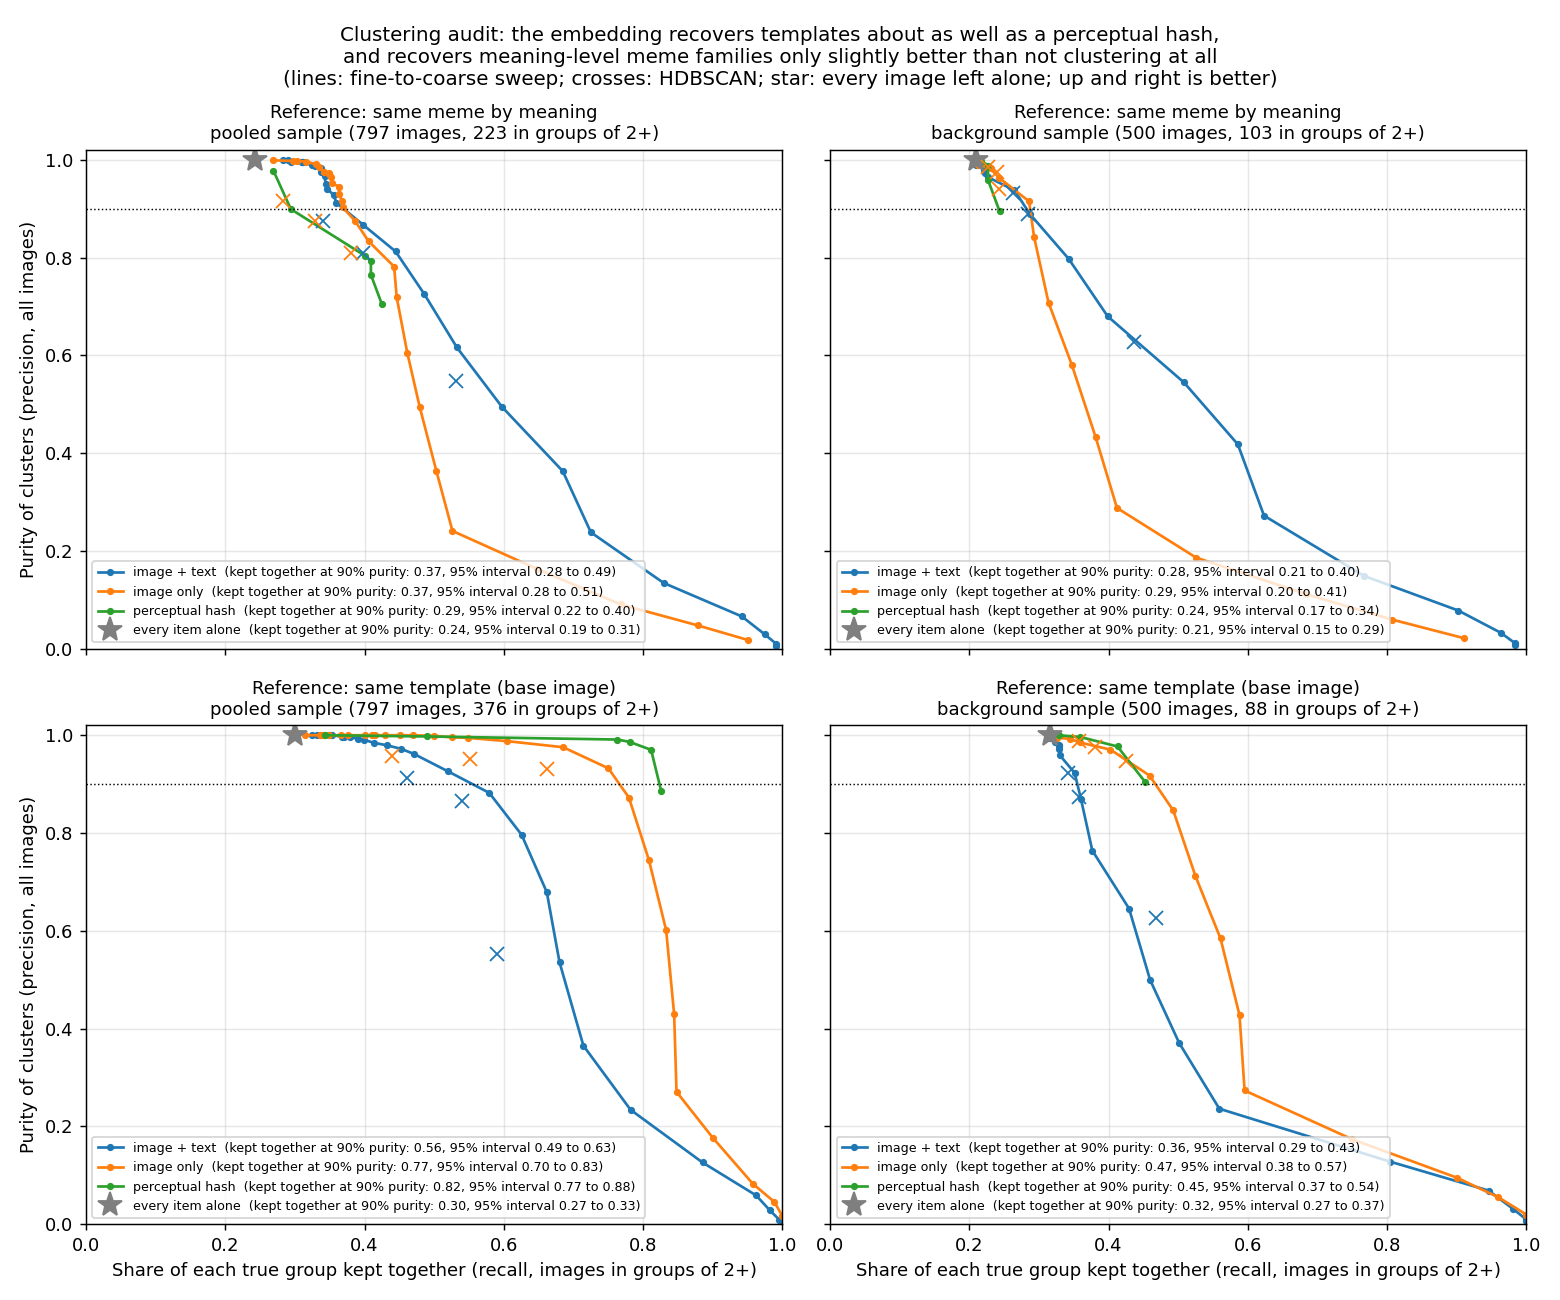
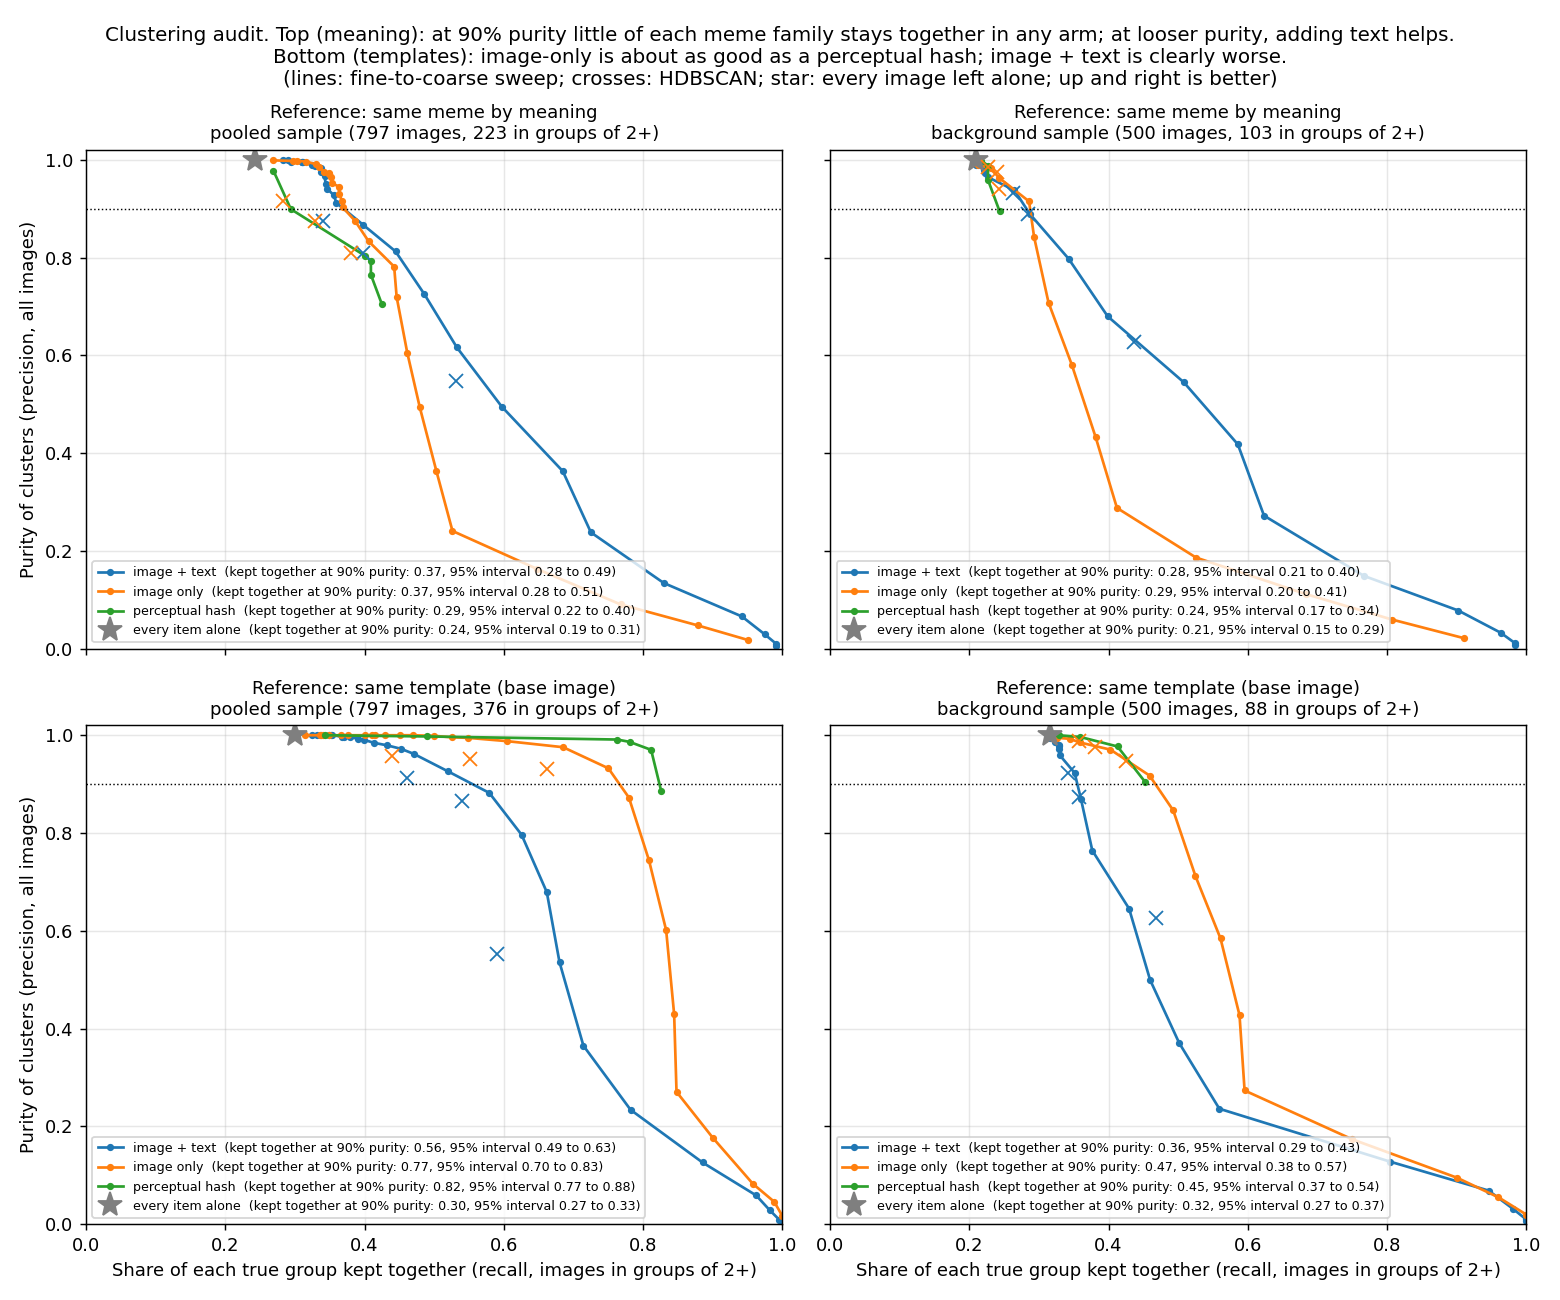
Clustering audit: record independent review and queue the unit-of-analysis decision
Claude-Session: https://claude.ai/code/session_01LFW5Hsb7zRZjx6Dcc4j7Yr

Changed region(s): [[0.0615, 0.0, 0.8308, 0.0615], [0.8308, 0.0, 0.9231, 0.0308]]

diff --git a/experiments/wp04/plot_audit.py b/experiments/wp04/plot_audit.py
@@ -92,8 +92,9 @@ def main() -> None:
             ax.set_xlim(0, 1); ax.set_ylim(0, 1.02); ax.grid(alpha=0.3)
             if r == 1: ax.set_xlabel("Share of each true group kept together (recall, images in groups of 2+)")
             if c == 0: ax.set_ylabel("Purity of clusters (precision, all images)")
-    fig.suptitle("Clustering audit: the embedding recovers templates about as well as a perceptual hash,\n"
-                 "and recovers meaning-level meme families only slightly better than not clustering at all\n"
+    fig.suptitle("Clustering audit. Top (meaning): at 90% purity little of each meme family stays together in any arm; "
+                 "at looser purity, adding text helps.\n"
+                 "Bottom (templates): image-only is about as good as a perceptual hash; image + text is clearly worse.\n"
                  "(lines: fine-to-coarse sweep; crosses: HDBSCAN; star: every image left alone; up and right is better)",
                  fontsize=11)
     fig.tight_layout()

diff --git a/docs/work-packages/WP-04-clustering-gold-set-audit.md b/docs/work-packages/WP-04-clustering-gold-set-audit.md
@@ -158,6 +158,42 @@ grades from the plots; no self-certified pass (AGENTS.md).
 
 <!-- Newest at top. -->
 
+- 2026-11-27 — **Independent review of the scored run (fresh agent, given artifacts and not
+  the conclusion): numbers reproduce, two of my readings were wrong, one pipeline bug
+  found.** Full text: `experiments/WP-04/sample-001/review/review.md`. Status of the scored
+  run is now `agent-reviewed`, with the family layer still unvalidated by the user check.
+  *Reproduced:* all 24 primary values to four decimals with separate code; row alignment
+  correct; a finer sweep moves numbers by at most 0.012; other linkages, a mutual-neighbour
+  graph and other image-to-text weightings all give 0.34–0.39, so the result is not an
+  artefact of the clustering method.
+  *Corrected reading 1:* "text adds nothing" is true only at the 0.90 operating point. At
+  precision 0.70 image plus text beats image only by 0.06 (0.02–0.10) pooled and 0.07
+  (0.02–0.14) in the background, and by more at 0.50; the 2-D map shows the same. At 0.90,
+  78% of the precision loss falls on images labelled unique, so a few false merges set the
+  number. The plot disagreed with my summary; the plot was right.
+  *Corrected reading 2:* "as good as a perceptual hash on templates" holds for image only
+  and is false for image plus text, the accepted composition (0.56 against 0.82). Plot title
+  fixed.
+  *Bug:* `embed_pipeline` in `experiments/wp01/pipelines.py` encodes an image with no
+  extracted text as the literal string "[empty]", so the 29 such images share an identical
+  text half and 17 unrelated ones form one cluster. Zeroing the text half for them lifts
+  image plus text from 0.37 to 0.39 pooled and 0.28 to 0.32 in the background. At corpus
+  scale every text-free image would fall into one cluster. Not yet fixed in the pipeline.
+  *Metric:* B-cubed recall counts an image as together with itself, which is why leaving
+  everything alone scores 0.24. Counting only pairs of different images, the share of
+  same-family pairs kept together at 90% purity is 0.21 pooled and 0.11 in the background
+  for both embedding arms, 0.09 and 0.04 for the hash, 0 for no clustering.
+  *Sample:* 79 of the 103 grouped background images have a family member in the hash-seeded
+  stratum; clustering the 500 background images alone leaves 23 multi-member families,
+  which is the registered "not enough families to tell" outcome for comparing arms there.
+  *Labels:* fill-in formats are treated inconsistently (two are split across families while
+  "me and the boys" is one), which charges the clustering with false merges.
+  *What stands:* at 90% purity one global threshold keeps few meaning-level families
+  together; pooled, the embedding beats the hash (+0.08, 0.04–0.12); the embedding does
+  carry meaning (nearest neighbour from the same family 43% of the time even excluding
+  same-template neighbours, text alone 45%, chance 1%). *What does not:* that text adds
+  nothing, that the embedding misses meaning, or any ranking of arms in the background.
+
 - 2026-11-27 — **User pair check done (100 pairs): template labels validated, family
   (meaning) labels fail the pre-set criterion.** Files: `experiments/WP-04/sample-001/user_check/`
   (`user_agreement.json`, `pairs_scored.csv`). Against the primary label set:

diff --git a/docs/02-state.md b/docs/02-state.md
@@ -9,9 +9,22 @@ The current snapshot. History is in [`changelog.md`](changelog.md).
 Decisions and reviews only the user can give. Each entry says what is being asked, what the
 agent recommends, and what is blocked meanwhile. Remove an entry once it is answered.
 
-- **Who labels the clustering gold set (WP-04)?** The plan has the user hand-label on the
-  order of 1,000 memes into families. Blocks the clustering audit and everything after it
-  (ADR 0009, WP-06). No recommendation recorded yet.
+- **What counts as "one meme" in this project?** The clustering audit (WP-04) cannot be
+  finished without it, and the modelling depends on it. Three candidates, from the audit's
+  evidence: (a) a *template*, the reused base image: you and the agent labels agreed on
+  every one of 56 informative pairs, and an image-only embedding or a plain perceptual hash
+  keeps about 80% of each template together at 90% purity; (b) a *specific joke or trend*
+  (the protocol's definition): agents agree with each other, but you disagreed on 8 of 39
+  hard cases, and one global clustering threshold keeps only about a fifth of same-meme
+  pairs together at 90% purity; (c) a *broad subject* (all Endgame memes), which is closer
+  to several of your answers and has not been measured. Recommendation: none yet; the
+  agent's lean is (a) as the unit that is measurable now, with (b) pursued as a
+  neighbour-graph or soft-membership problem. Blocks ADR 0009 (clustering method), the
+  embedding composition question below, and everything downstream of clusters.
+- **Is the accepted embedding (image plus extracted text, ADR 0006/0017) still right?** For
+  templates it is clearly worse than image alone (0.56 against 0.77); for meaning it helps
+  at looser purity. Depends on the answer above. A bug in it (text-free images share one
+  text vector) needs fixing either way.
 - **Review of the submissions ingest (WP-16).** 11,782,247 posts ingested with exact
   reconciliation; the outcome has not been reviewed by anyone but the agent that produced
   it. Report: `experiments/WP-16/report.md`. Blocks nothing right now.
